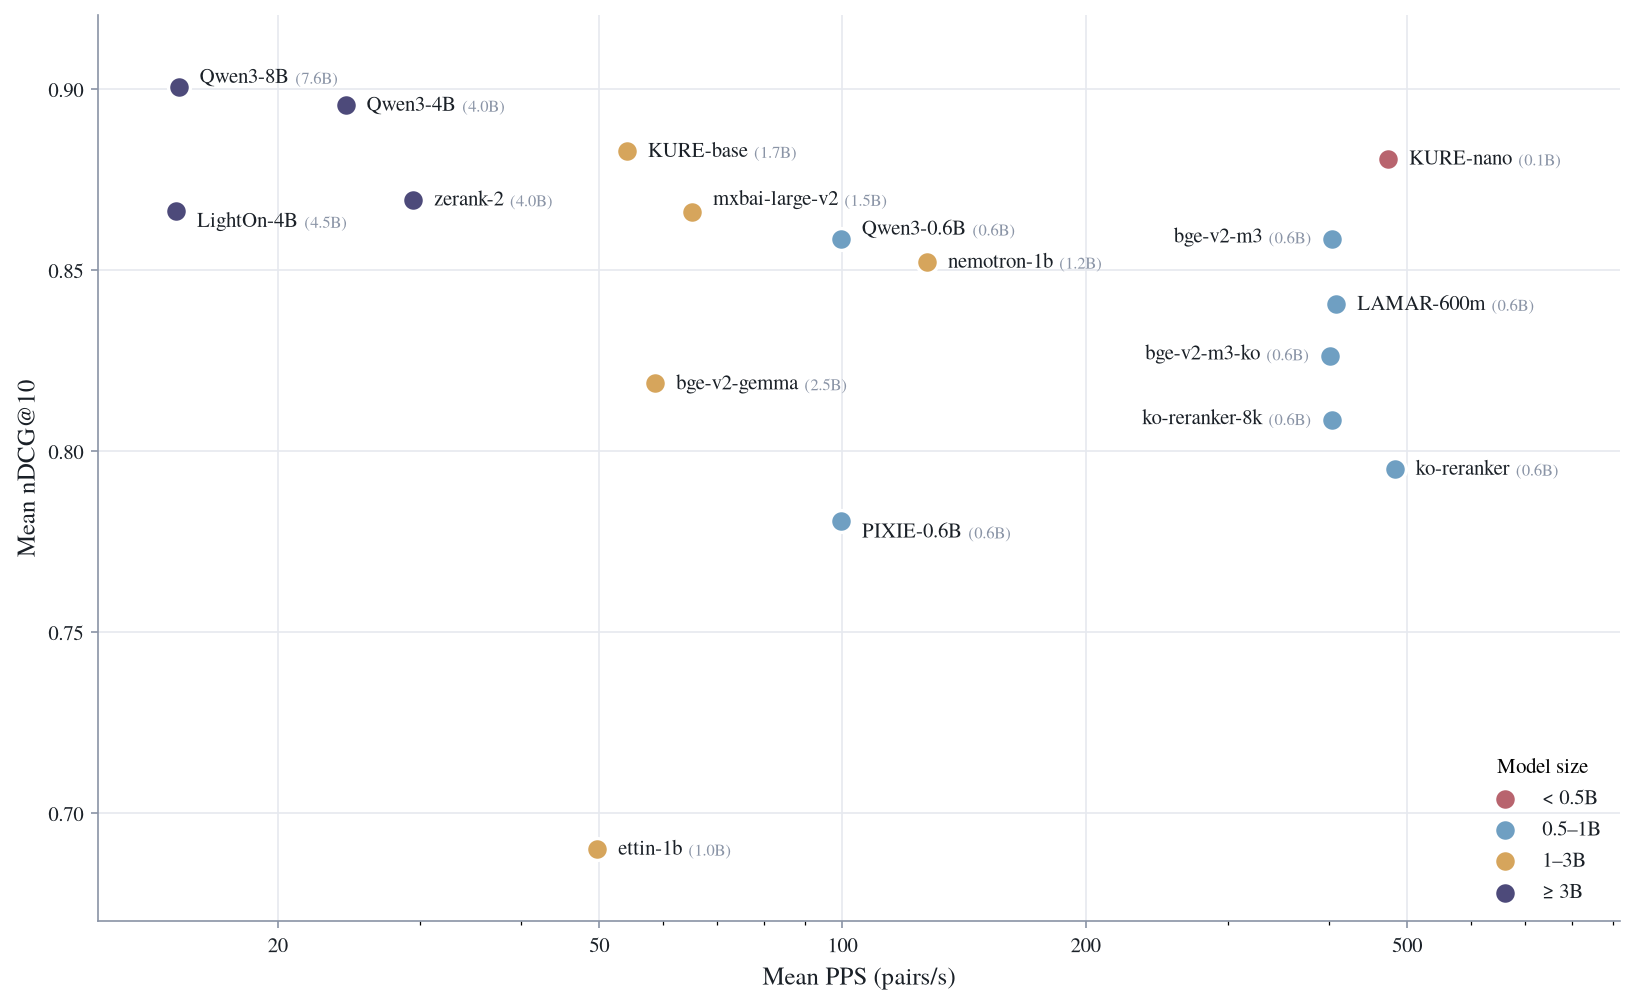
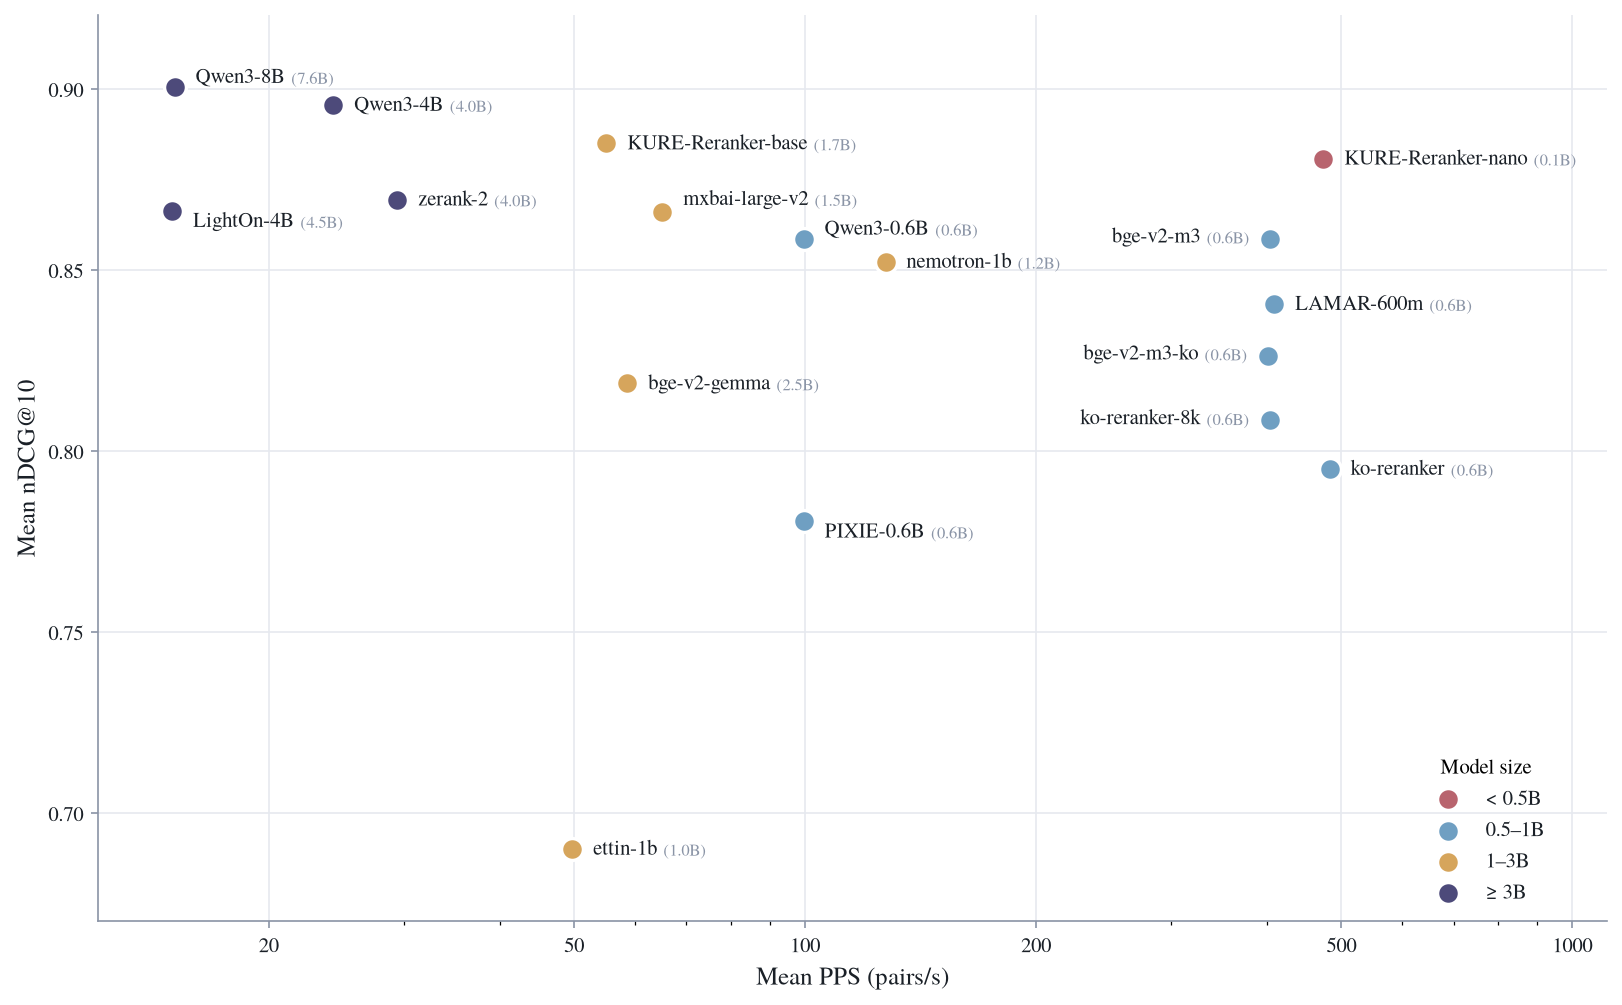
chore: update kure-v2 results and figure

diff --git a/eval/plot_pps_vs_ndcg.py b/eval/plot_pps_vs_ndcg.py
@@ -50,8 +50,8 @@ SHORT = {
     "Dongjin-kr/ko-reranker": "ko-reranker",
     "telepix/PIXIE-Spell-Reranker-Preview-0.6B": "PIXIE-0.6B",
     "cross-encoder/ettin-reranker-1b-v1": "ettin-1b",
-    "nlpai-lab/KURE-Reranker-nano": "KURE-nano",
-    "nlpai-lab/KURE-Reranker-base": "KURE-base",
+    "nlpai-lab/KURE-Reranker-nano": "KURE-Reranker-nano",
+    "nlpai-lab/KURE-Reranker-base": "KURE-Reranker-base",
 }
 
 # 점이 겹치는 모델의 라벨 오프셋(points). 없으면 점 오른쪽. dx<0 이면 점 왼쪽에 우측 정렬.
@@ -115,13 +115,15 @@ def main():
     ax.xaxis.set_major_locator(FixedLocator(ticks))
     ax.xaxis.set_major_formatter(FixedFormatter([f"{t:g}" for t in ticks]))
     ax.xaxis.set_minor_formatter(NullFormatter())
-    ax.set_xlim(min(xs) * 0.8, max(xs) * 1.9)
+    ax.set_xlim(min(xs) * 0.8, max(xs) * 2.3)
     ax.set_ylim(min(ys) - 0.02, max(ys) + 0.02)
 
     ax.set_xlabel("Mean PPS (pairs/s)", fontsize=12, color=INK)
     ax.set_ylabel("Mean nDCG@10", fontsize=12, color=INK)
-    ax.legend(title="Model size", loc="lower right", frameon=False, fontsize=10,
-              title_fontsize=10, labelcolor=INK)
+    # 범례 오른쪽 끝을 x=920 에 둠 — 1000 눈금에서 살짝 띄움 (x 는 data, y 는 axes 좌표).
+    ax.legend(title="Model size", loc="lower right", bbox_to_anchor=(920, 0.02),
+              bbox_transform=ax.get_xaxis_transform(), borderaxespad=0, borderpad=0,
+              frameon=False, fontsize=10, title_fontsize=10, labelcolor=INK)
 
     ax.grid(True, which="major", color="#e6e9ef", linewidth=0.8, zorder=0)
     for s in ("top", "right"):

diff --git a/README.md b/README.md
@@ -67,7 +67,7 @@ uv run streamlit run leaderboard_reranker.py
 |---|---|---|---|
 | tomaarsen/Qwen3-Reranker-8B-seq-cls | 7.6B | 0.9004 | 15.1 |
 | tomaarsen/Qwen3-Reranker-4B-seq-cls | 4.0B | 0.8956 | 24.3 |
-| nlpai-lab/KURE-Reranker-base | 1.7B | 0.8828 | 54.1 |
+| nlpai-lab/KURE-Reranker-base | 1.7B | 0.8849 | 55.1 |
 | nlpai-lab/KURE-Reranker-nano | 149M | 0.8808 | 473.7 |
 | zeroentropy/zerank-2-reranker | 4.0B | 0.8695 | 29.4 |
 | lightonai/LightOn-rerank-PW-4B | 4.5B | 0.8664 | 15.0 |
@@ -93,7 +93,7 @@ uv run streamlit run leaderboard_reranker.py
 |---|---|---|---|---|---|---|---|---|---|---|
 | tomaarsen/Qwen3-Reranker-8B-seq-cls | 7.6B | 0.8679 | 0.9546 | 0.8893 | 0.9907 | 0.8490 | 0.8409 | 0.8220 | 0.9880 | 0.9014 |
 | tomaarsen/Qwen3-Reranker-4B-seq-cls | 4.0B | 0.8733 | 0.9707 | 0.8685 | 0.9906 | 0.8533 | 0.8321 | 0.8105 | 0.9861 | 0.8752 |
-| nlpai-lab/KURE-Reranker-base | 1.7B | 0.8525 | 0.9762 | 0.8722 | 0.9881 | 0.8323 | 0.7978 | 0.8031 | 0.9883 | 0.8350 |
+| nlpai-lab/KURE-Reranker-base | 1.7B | 0.8548 | 0.9762 | 0.8716 | 0.9880 | 0.8371 | 0.7970 | 0.8163 | 0.9891 | 0.8343 |
 | nlpai-lab/KURE-Reranker-nano | 149M | 0.8582 | 0.9741 | 0.8475 | 0.9830 | 0.8400 | 0.8011 | 0.7966 | 0.9895 | 0.8368 |
 | jinaai/jina-reranker-v3.5 | 597M | 0.8539 | 0.9838 | 0.8094 | 0.9733 | 0.8565 | 0.8194 | — | 0.9887 | 0.8545 |
 | jinaai/jina-reranker-v3 | 597M | 0.8553 | 0.9773 | 0.7960 | 0.9695 | 0.8449 | 0.8104 | — | 0.9859 | 0.8546 |
@@ -117,7 +117,7 @@ uv run streamlit run leaderboard_reranker.py
 |---|---|---|---|---|---|---|---|---|---|---|
 | tomaarsen/Qwen3-Reranker-8B-seq-cls | 7.6B | 16.6 | 7.3 | 17.5 | 19.4 | 24.9 | 26.5 | 0.7 | 10.6 | 12.3 |
 | tomaarsen/Qwen3-Reranker-4B-seq-cls | 4.0B | 26.1 | 11.8 | 28.4 | 31.5 | 40.0 | 42.4 | 1.1 | 17.2 | 20.0 |
-| nlpai-lab/KURE-Reranker-base | 1.7B | 58.2 | 27.0 | 63.7 | 70.0 | 87.1 | 95.3 | 2.6 | 38.1 | 45.0 |
+| nlpai-lab/KURE-Reranker-base | 1.7B | 59.2 | 27.3 | 64.6 | 71.1 | 89.1 | 97.1 | 2.6 | 39.1 | 45.7 |
 | nlpai-lab/KURE-Reranker-nano | 149M | 475.4 | 233.2 | 569.7 | 630.9 | 765.8 | 855.2 | 16.5 | 330.8 | 386.0 |
 | jinaai/jina-reranker-v3.5 | 597M | 141.0 | 38.6 | 148.6 | 174.6 | 277.3 | 295.7 | — | 68.4 | 86.7 |
 | jinaai/jina-reranker-v3 | 597M | 113.8 | 25.0 | 121.8 | 169.2 | 244.6 | 261.6 | — | 48.7 | 64.0 |
